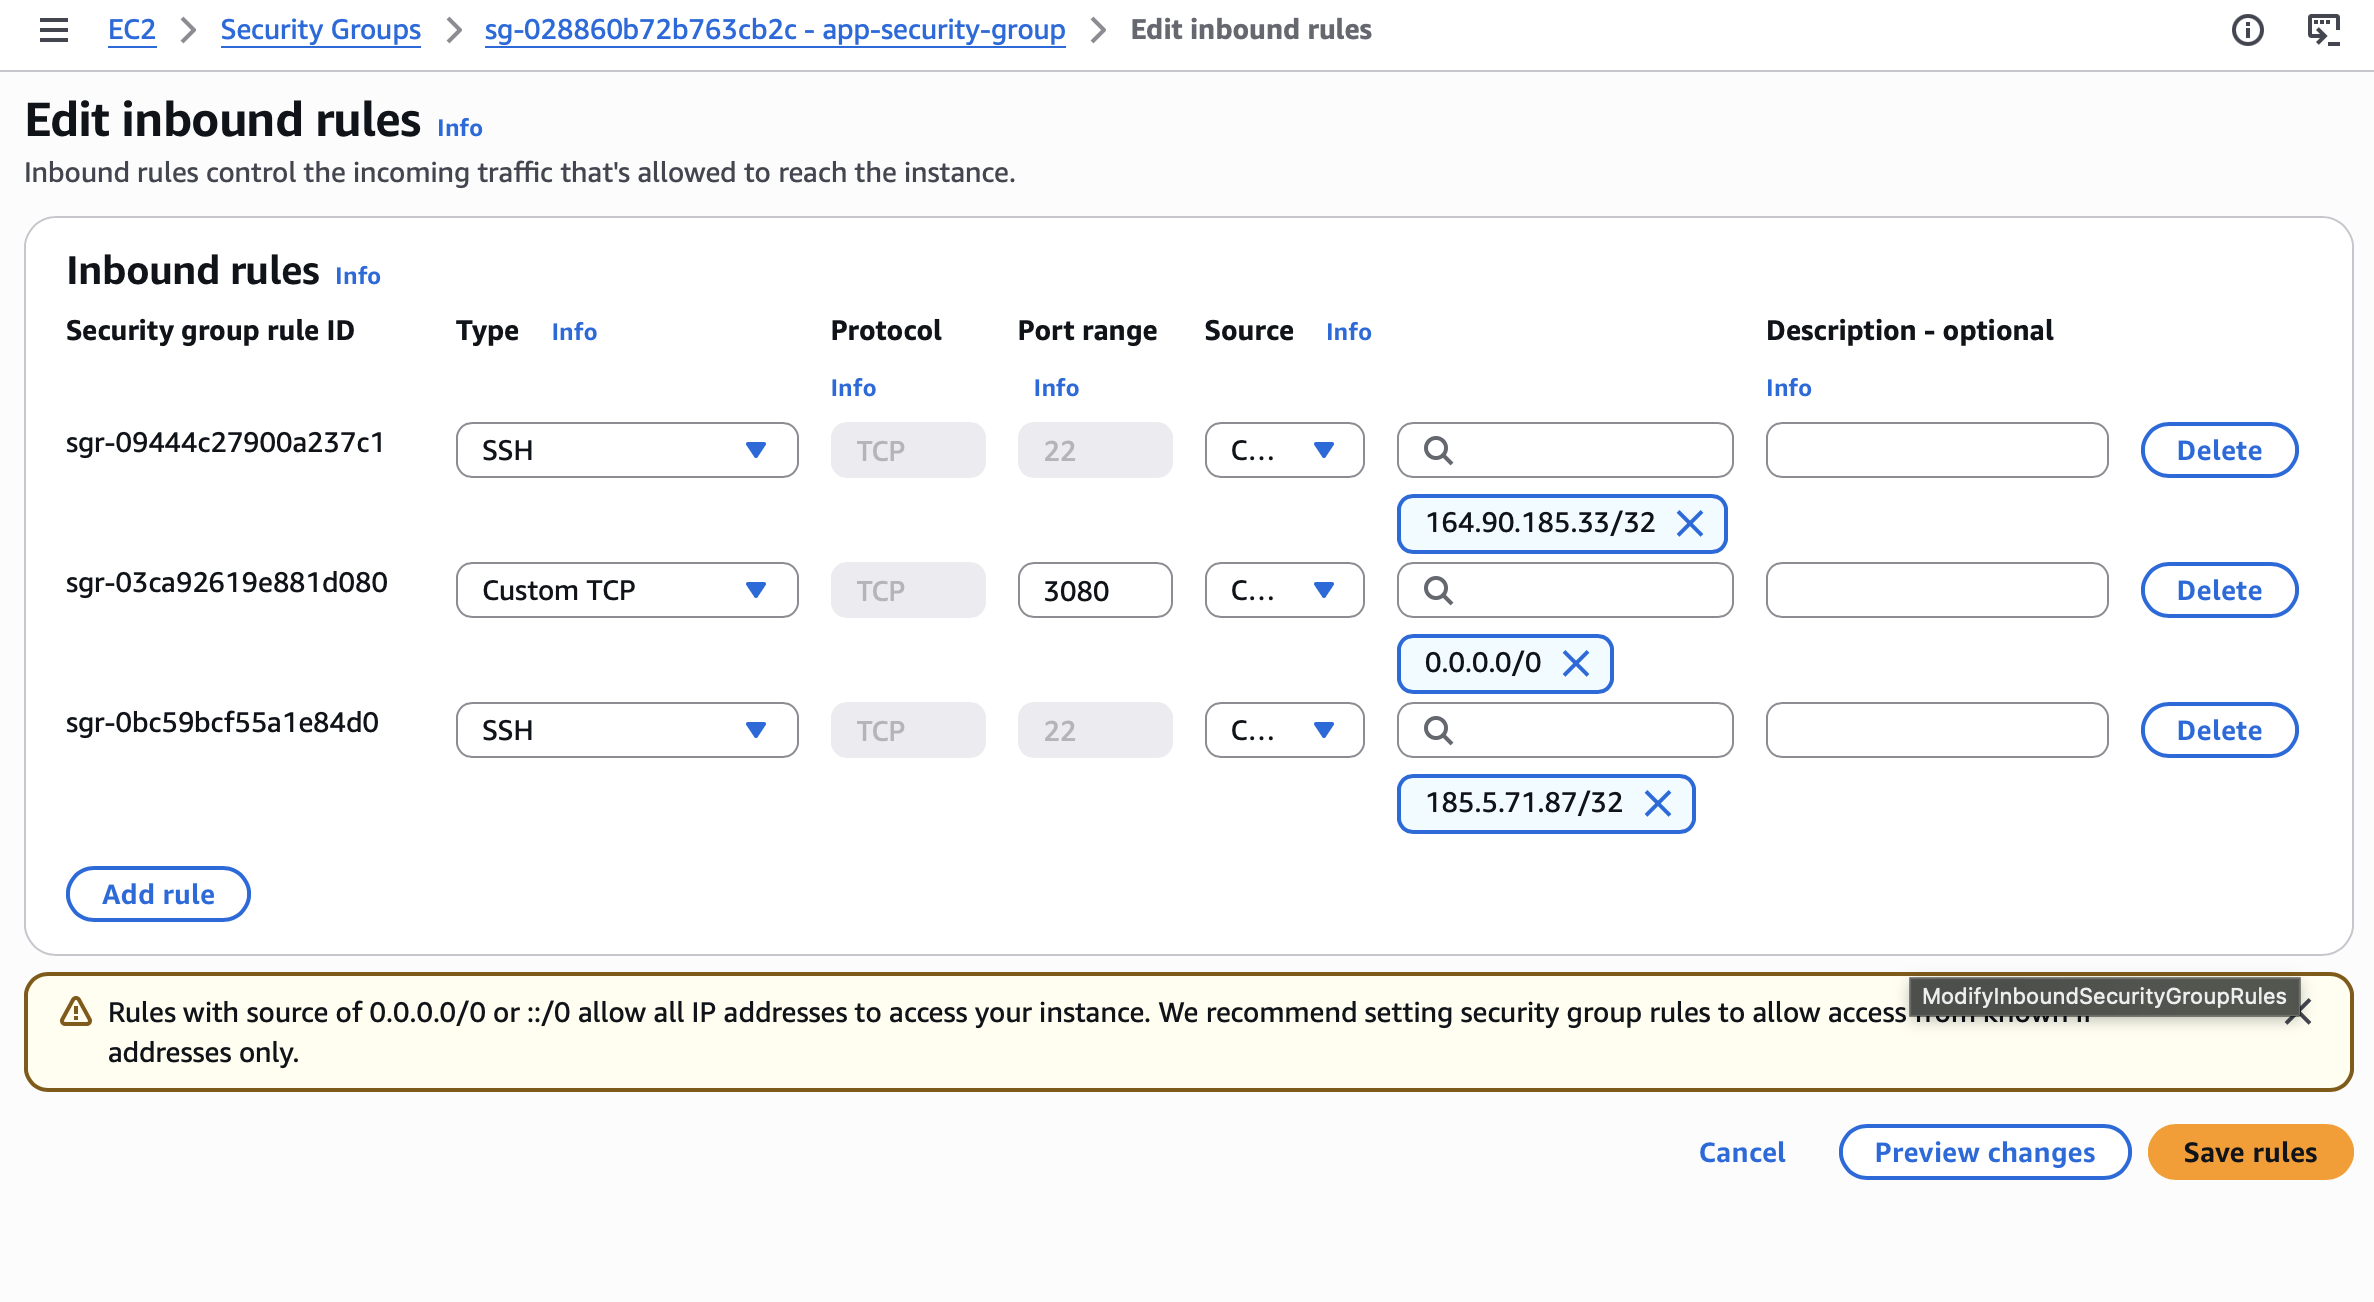
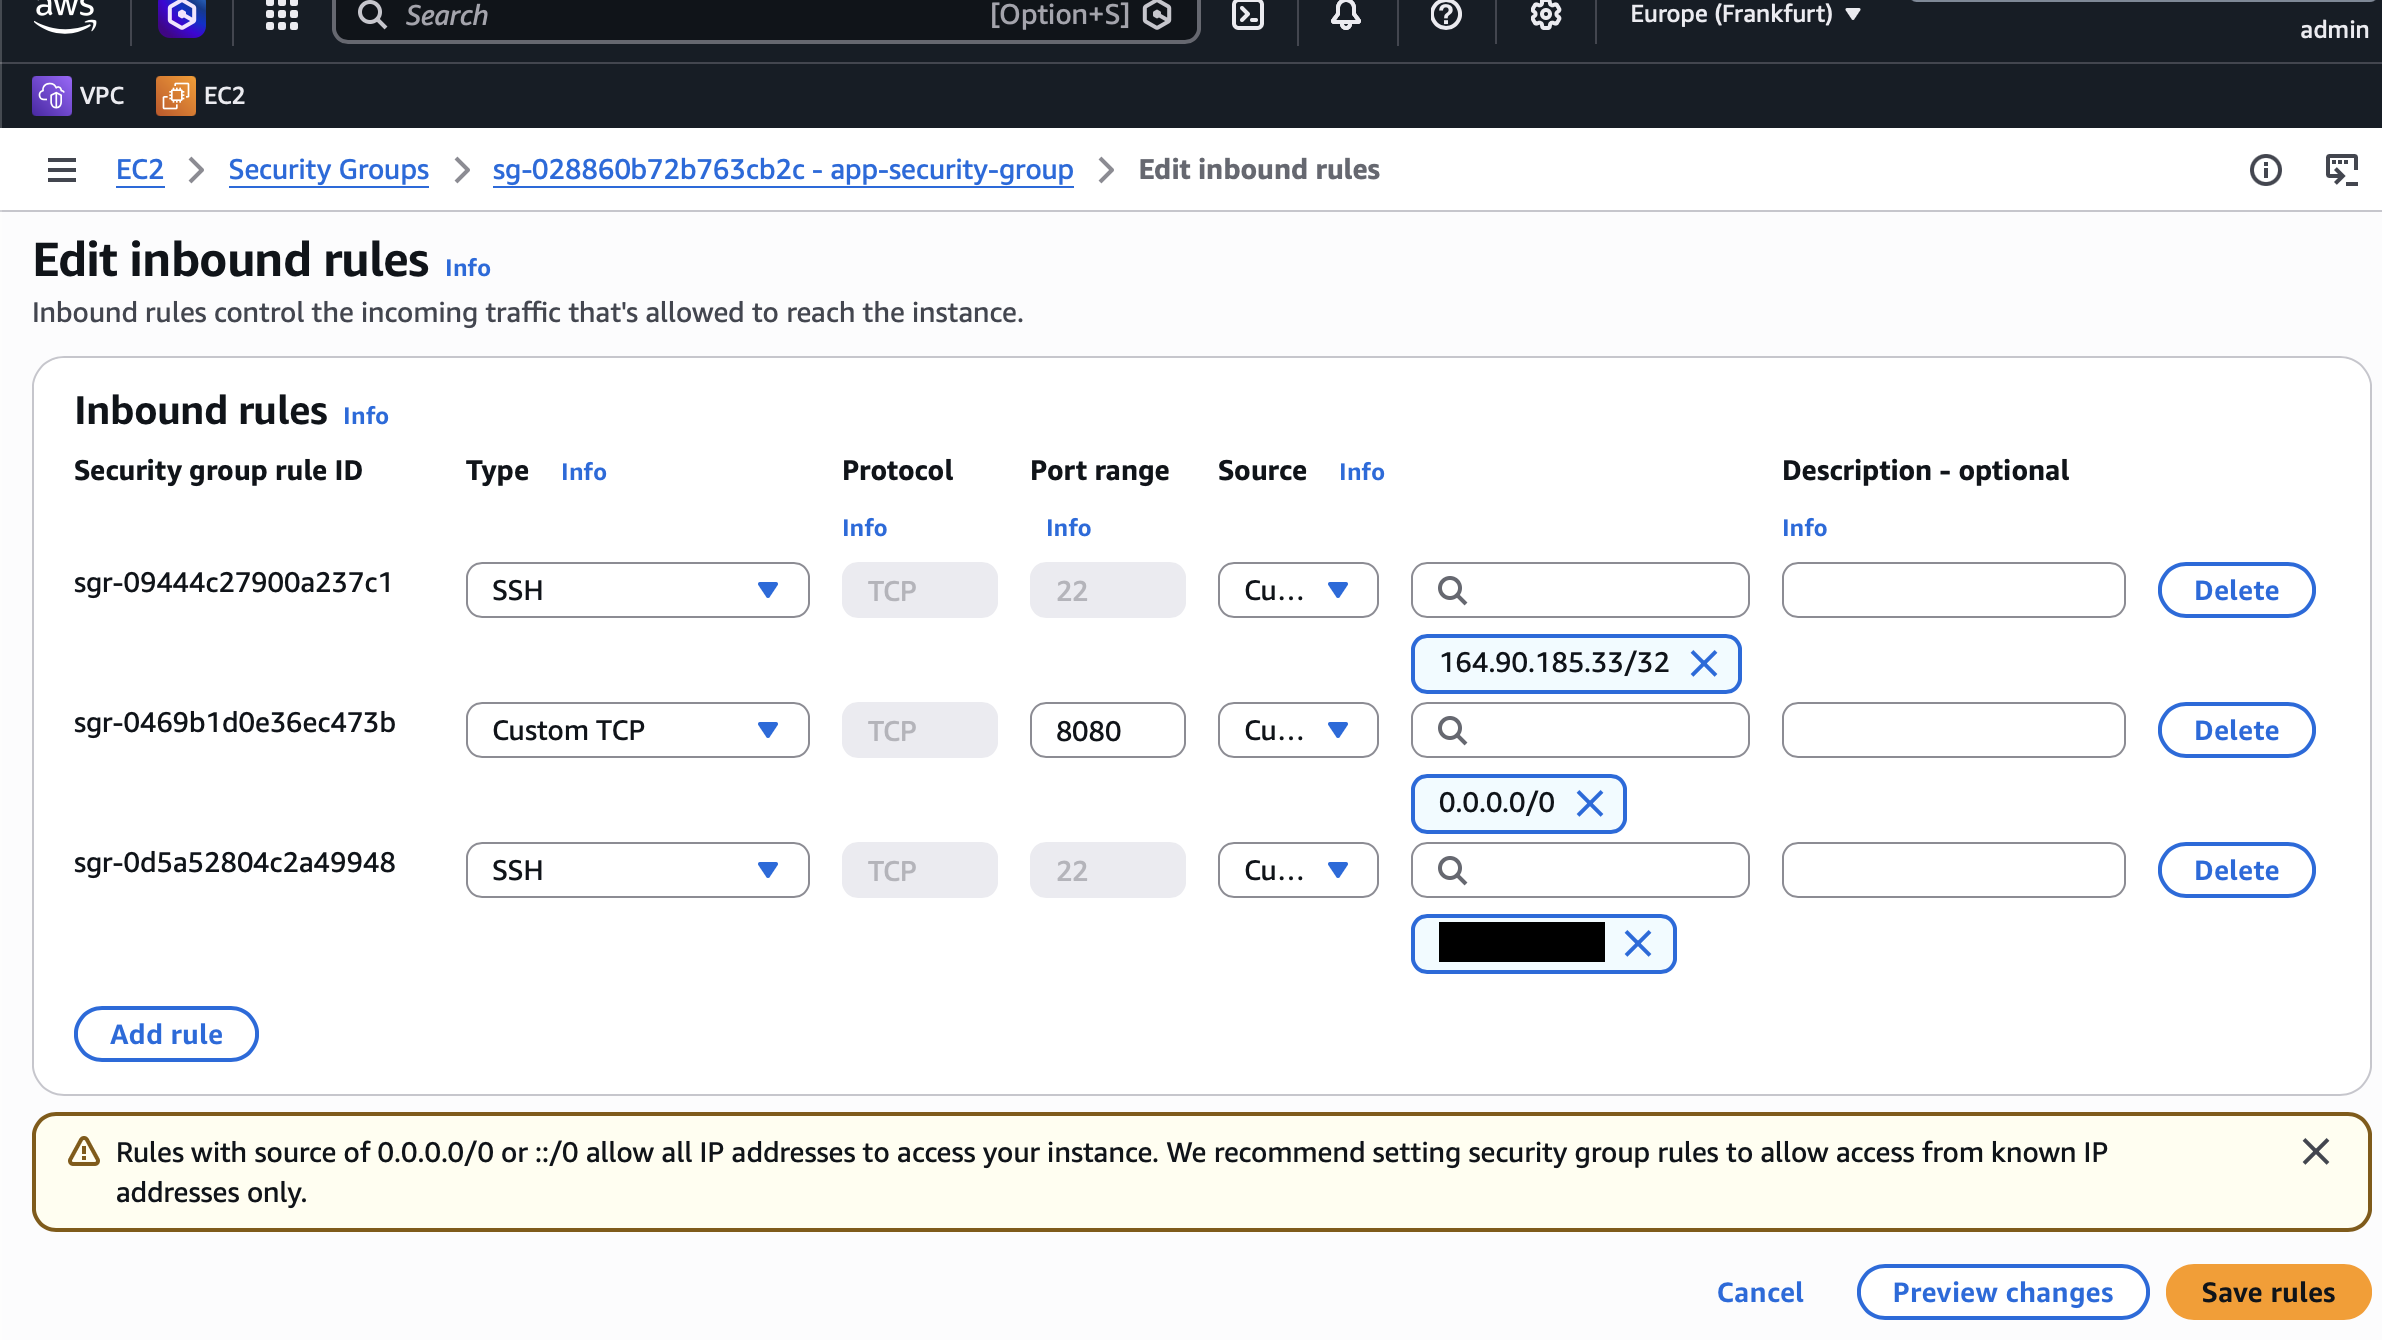
Update Jenkins pipeline and application scripts: add EC2 public IP parameter and enhance deployment command

diff --git a/README.md b/README.md
@@ -87,8 +87,7 @@ sshagent(['aws-ec2']) {
 
 See the full code at `app/script.groovy` (`deployApp`)
 
-4. Add Jenkins IP address to firewall rules on the EC2 instance
-
+### Configure security group on EC2 Instance to allow access to our web application
 
 Edit inbound rules -> Add rule
 
@@ -100,4 +99,7 @@ Source: `<Jenkins-IP>/32`
 
 ![](./images/firewall.png)
 
+- Run pipeline job and see the results
+
+Navigate to `<EC2_PUBLIC_IP>:8080`
 
